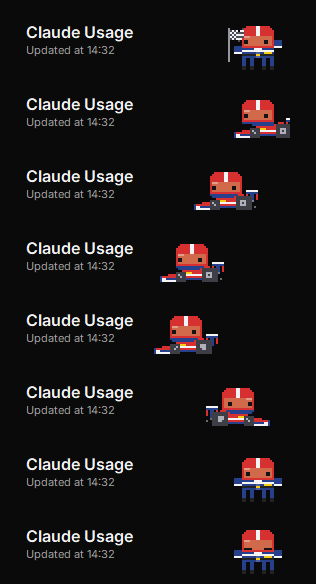
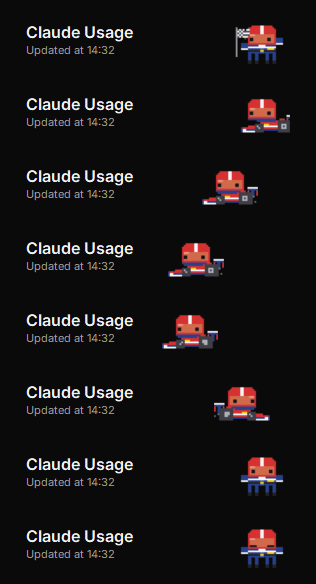
Match the mascot size, vary the work and unlock juggling from two sessions
The drawn mascots now match the laptop one in size, the header no longer keeps leftover leg pixels, and while working the mascot also thinks, takes notes, reads and stretches. Juggling and lifting weights start from two sessions and appear more often with more sessions. Version 1.11.0.

diff --git a/src/PixelMascot.cs b/src/PixelMascot.cs
@@ -1,5 +1,6 @@
 using System;
 using System.Drawing;
+using System.Drawing.Drawing2D;
 using System.Drawing.Imaging;
 
 enum MascotStyle { Pixel, Santa, Classic, Headphones, Chef, Scientist, Detective, Winter, Racer, Halloween, Carnival }
@@ -29,6 +30,10 @@ class PixelMascot : IReactiveMascot
 {
     const int Columns = 32;
     const int Rows = 24;
+    const int Supersample = 4; // Drawn this many times larger and scaled down, so the size can match the laptop mascot exactly.
+    const double DisplayScale = 0.875; // The same height as the original laptop animation.
+    const int WorkSlotMs = 14000; // How long each way of working lasts.
+    const int OverloadPeriod = 30; // Seconds in one cycle of juggling and lifting when several sessions run.
     const int FrameMs = 50; // The animation redraws this often, so motion is smooth.
     const int SleepFrameMs = 420;
     const int LegLength = 6;
@@ -41,7 +46,7 @@ class PixelMascot : IReactiveMascot
     const int FullPercent = 100;
     const int PanicMinutes = 30;
     const int CoffeeMinutes = 120;
-    const int JuggleSessions = 3;
+    const int JuggleSessions = 2;
     const int LastNightHour = 5;
     const int CelebrateFrames = 26;
     const int WaveFrames = 14;
@@ -573,13 +578,24 @@ class PixelMascot : IReactiveMascot
             break;
         }
 
-        if (state.Sessions.Busy >= JuggleSessions) return alternate ? MascotMood.Juggle : MascotMood.Lift;
+        MascotMood? overloaded = Overloaded(state.Sessions.Busy, now);
+        if (overloaded.HasValue) return overloaded.Value;
         if (state.Sessions.Busy > 0 || minutes <= WorkingMinutes)
         {
             if (highest >= TiredPercent) return MascotMood.Tired;
             return state.BusyMinutes >= CoffeeMinutes ? MascotMood.Coffee : MascotMood.Work;
         }
         return state.Sessions.Running > 0 || minutes <= RestingMinutes ? MascotMood.Idle : RestingMood(now);
+    }
+
+    // From two sessions on, juggling and lifting take turns in windows that grow with the number of sessions.
+    static MascotMood? Overloaded(int busy, DateTime now)
+    {
+        if (busy < JuggleSessions) return null;
+        double share = Math.Min(0.85, 0.15 + 0.15 * (busy - 1));
+        double seconds = now.TimeOfDay.TotalSeconds;
+        if (seconds % OverloadPeriod >= share * OverloadPeriod) return null;
+        return (long)(seconds / OverloadPeriod) % 2 == 0 ? MascotMood.Juggle : MascotMood.Lift;
     }
 
     static MascotMood RestingMood(DateTime now)
@@ -606,10 +622,11 @@ class PixelMascot : IReactiveMascot
 
     static Bitmap Render(MascotStyle style, MascotMood mood, int tick, int pixel, MascotAction? action, int actionTick, WalkPose walk, double ms)
     {
-        Bitmap bitmap = new Bitmap(Columns * pixel, Rows * pixel, PixelFormat.Format32bppArgb);
-        using (Graphics g = Graphics.FromImage(bitmap))
+        int unit = pixel * Supersample;
+        Bitmap big = new Bitmap(Columns * unit, Rows * unit, PixelFormat.Format32bppPArgb);
+        using (Graphics g = Graphics.FromImage(big))
         {
-            Canvas canvas = new Canvas(g, pixel);
+            Canvas canvas = new Canvas(g, unit);
             canvas.Style = style;
             canvas.Tick = tick;
             canvas.Ms = ms;
@@ -622,6 +639,14 @@ class PixelMascot : IReactiveMascot
             if (action.HasValue) DrawAction(canvas, style, action.Value, actionTick);
             else DrawMood(canvas, style, mood, tick, walk);
         }
+        Bitmap bitmap = new Bitmap((int)Math.Round(Columns * pixel * DisplayScale), (int)Math.Round(Rows * pixel * DisplayScale), PixelFormat.Format32bppPArgb);
+        using (Graphics g = Graphics.FromImage(bitmap))
+        {
+            g.InterpolationMode = InterpolationMode.HighQualityBilinear;
+            g.PixelOffsetMode = PixelOffsetMode.HighQuality;
+            g.DrawImage(big, new Rectangle(0, 0, bitmap.Width, bitmap.Height), 0, 0, big.Width, big.Height, GraphicsUnit.Pixel);
+        }
+        big.Dispose();
         return bitmap;
     }
 
@@ -940,10 +965,106 @@ class PixelMascot : IReactiveMascot
 
     static void DrawWork(Canvas canvas, MascotStyle style, int tick, bool tired)
     {
+        int slot = tired ? 0 : WorkSlot(canvas.Ms);
+        if (slot != 0)
+        {
+            DrawWorkBreak(canvas, style, slot, canvas.Ms % WorkSlotMs);
+            return;
+        }
         DrawTyping(canvas, tick, tired);
         DrawLaptop(canvas, LidHeight(tick));
         DrawOutfit(canvas, style, BodyTop);
         if (tired) canvas.Fill(BodyLeft + 23, BodyTop + tick % 8, 2, 3, Sweat);
+    }
+
+    // The laptop most of the time, with a few other things to do in between so the work never looks the same.
+    static int WorkSlot(double ms)
+    {
+        int[] order = { 0, 1, 0, 2, 0, 3, 0, 4 };
+        return order[(int)(ms / WorkSlotMs) % order.Length];
+    }
+
+    // 1 thinking, 2 taking notes, 3 reading, 4 stretching.
+    static void DrawWorkBreak(Canvas canvas, MascotStyle style, int slot, double ms)
+    {
+        int top = BodyTop;
+        int left = BodyLeft;
+        Color paper = Color.FromArgb(240, 240, 234);
+        Color ink = Color.FromArgb(110, 130, 190);
+        switch (slot)
+        {
+            case 1:
+                DrawFigure(canvas, top, 0, -3);
+                DrawOpenEyes(canvas, top, 1, 0, 4);
+                DrawOutfit(canvas, style, top);
+                double phase = ms % 3200;
+                if (phase < 1700)
+                {
+                    for (int dot = 0; dot < 3; dot++)
+                        if (phase > dot * 450)
+                            canvas.Fill(26 + dot * 2, top - 1 - dot * 2, 2, 2, Color.FromArgb(205, 205, 212));
+                }
+                else
+                {
+                    canvas.Fill(27, 1, 3, 1, Question);
+                    canvas.Fill(26, 2, 5, 3, Question);
+                    canvas.Fill(27, 5, 3, 1, Question);
+                    canvas.Fill(27, 6, 3, 1, Color.FromArgb(150, 150, 156));
+                    if ((int)(phase / 120) % 2 == 0)
+                    {
+                        canvas.Fill(24, 3, 1, 1, Question);
+                        canvas.Fill(31, 3, 1, 1, Question);
+                    }
+                }
+                break;
+            case 2:
+                DrawFigure(canvas, top, -1, -1 + (int)(ms / 160 % 2));
+                DrawOpenEyes(canvas, top, (int)(ms / 700 % 3) - 1, 1, 3);
+                canvas.Fill(left + 5, top + 8, 14, 8, paper);
+                for (int line = 0; line < 3; line++)
+                    canvas.Fill(left + 7, top + 10 + line * 2, 10 - (line == 2 ? 4 : 0), 1, ink);
+                canvas.Fill(left + 19 + (int)(ms / 160 % 2), top + 8, 1, 3, Gold);
+                canvas.Fill(left + 19 + (int)(ms / 160 % 2), top + 11, 1, 1, Boot);
+                DrawOutfit(canvas, style, top);
+                break;
+            case 3:
+                DrawFigure(canvas, top, 0, 0);
+                DrawOpenEyes(canvas, top, (int)(ms / 420 % 3) - 1, 1, 3);
+                canvas.Fill(left + 3, top + 16, 18, 1, Brown);
+                canvas.Fill(left + 4, top + 8, 8, 8, paper);
+                canvas.Fill(left + 13, top + 8, 7, 8, Color.FromArgb(226, 226, 218));
+                canvas.Fill(left + 12, top + 8, 1, 8, Brown);
+                for (int line = 0; line < 3; line++)
+                {
+                    canvas.Fill(left + 5, top + 10 + line * 2, 6, 1, ink);
+                    canvas.Fill(left + 14, top + 10 + line * 2, 5, 1, ink);
+                }
+                double turn = ms % 2600;
+                if (turn < 450)
+                {
+                    int x = left + 19 - (int)(turn / 450 * 8);
+                    canvas.Fill(x, top + 8, 3, 8, Color.FromArgb(250, 250, 244));
+                }
+                DrawOutfit(canvas, style, top);
+                break;
+            default:
+                double stretch = ms % 3600;
+                bool up = stretch < 2200;
+                int arm = up ? -4 : 0;
+                DrawFigure(canvas, top, arm, arm);
+                if (up) DrawClosedEyes(canvas, top);
+                else DrawOpenEyes(canvas, top, 0, 1, 3);
+                DrawOutfit(canvas, style, top);
+                if (up)
+                {
+                    Color puff = Color.FromArgb(200, 235, 235, 240);
+                    canvas.Fill(1, top + 1, 3, 1, puff);
+                    canvas.Fill(0, top + 4, 3, 1, puff);
+                    canvas.Fill(28, top + 1, 3, 1, puff);
+                    canvas.Fill(29, top + 4, 3, 1, puff);
+                }
+                break;
+        }
     }
 
     static int LidHeight(int tick)

diff --git a/src/Preview.cs b/src/Preview.cs
@@ -19,6 +19,7 @@ static class Preview
         RenderOutfits(Path.Combine(directory, "mascot-outfits.png"));
         RenderReactions(Path.Combine(directory, "mascot-reactions.png"));
         RenderMoves(Path.Combine(directory, "mascot-moves.png"));
+        RenderWorking(Path.Combine(directory, "mascot-working.png"));
         RenderWalk(Path.Combine(directory, "mascot-walk.png"), MascotStyle.Detective, false, new[] { 0, 14, 26, 40, 54, 68 }, false);
         RenderWalk(Path.Combine(directory, "mascot-panic-walk.png"), MascotStyle.Pixel, true, new[] { 0, 3, 6, 9, 12, 15, 18 }, false);
         RenderWalk(Path.Combine(directory, "mascot-racer-drive.png"), MascotStyle.Racer, false, new[] { 4, 13, 17, 21, 25, 32, 40, 48 }, false);
@@ -73,6 +74,34 @@ static class Preview
         RenderWalk(Path.Combine(directory, "mascot-act-winter.png"), MascotStyle.Winter, false, fast, true);
         RenderWalk(Path.Combine(directory, "mascot-act-halloween.png"), MascotStyle.Halloween, false, fast, true);
         RenderWalk(Path.Combine(directory, "mascot-act-carnival.png"), MascotStyle.Carnival, false, slow, true);
+    }
+
+    // The ways of working: the laptop, then thinking, taking notes, reading and stretching.
+    static void RenderWorking(string path)
+    {
+        const int Pixel = 4;
+        const int Width = 112;
+        const int Height = 84;
+        const int Gap = 12;
+        int slot = 14000;
+        int[][] rows =
+        {
+            new[] { 500, 1500, 2500, 3500 },
+            new[] { slot + 500, slot + 1500, slot + 2300, slot + 2900 },
+            new[] { slot * 3 + 400, slot * 3 + 900, slot * 3 + 1500, slot * 3 + 2200 },
+            new[] { slot * 5 + 300, slot * 5 + 1000, slot * 5 + 2000, slot * 5 + 2550 },
+            new[] { slot * 7 + 500, slot * 7 + 1500, slot * 7 + 2500, slot * 7 + 3000 }
+        };
+        using (Bitmap sheet = new Bitmap(4 * (Width + Gap) + Gap, rows.Length * (Height + Gap) + Gap))
+        using (Graphics g = Graphics.FromImage(sheet))
+        {
+            g.Clear(Color.FromArgb(10, 10, 10));
+            for (int row = 0; row < rows.Length; row++)
+                for (int i = 0; i < 4; i++)
+                    using (Bitmap frame = PixelMascot.RenderAt(MascotStyle.Pixel, MascotMood.Work, Pixel, null, rows[row][i]))
+                        g.DrawImageUnscaled(frame, Gap + i * (Width + Gap), Gap + row * (Height + Gap));
+            sheet.Save(path, ImageFormat.Png);
+        }
     }
 
     // The new animations frame by frame: a hop, popping up and flattening, the flag, the workout and lying flat.

diff --git a/src/UsagePanel.cs b/src/UsagePanel.cs
@@ -812,7 +812,7 @@ class UsagePanel : Form
         UpdateWalkRoom();
         mascot.Advance();
         mascotTimer.Interval = mascot.CurrentDelayMs;
-        Invalidate(new Rectangle(Math.Max(0, ClientSize.Width - Px(230)), 0, Px(230), Px(60)));
+        Invalidate(new Rectangle(Math.Max(0, ClientSize.Width - Px(230)), 0, Px(230), Px(80)));
     }
 
     int WalkShift

diff --git a/src/App.cs b/src/App.cs
@@ -11,7 +11,7 @@ using System.Runtime.InteropServices;
 static class App
 {
     public const string Name = "Claude Usage Taskbar";
-    public const string Version = "1.10.0";
+    public const string Version = "1.11.0";
     public const string Id = "ClaudeUsageTaskbar";
     public const string ExeName = Id + ".exe";
 

diff --git a/README.ru.md b/README.ru.md
@@ -117,9 +117,9 @@
 | Спрашивает со знаком вопроса | Сессии нужно ваше разрешение или ответ |
 | Паникует | По прогнозу лимит закончится менее чем через 30 минут |
 | Пьёт кофе | Работает более 2 часов |
-| Жонглирует | Одновременно работают три сессии или больше |
+| Жонглирует и поднимает штангу | Одновременно работают две сессии или больше. Чем больше сессий, тем чаще |
 
-Он также реагирует на происходящее. Когда лимит обновляется, он втыкает клетчатый флаг, который развевается на ветру, а вокруг сыплется конфетти. Когда обновление приложения завершается, он подпрыгивает и сплющивается в облаке конфетти. Он машет или подпрыгивает при наведении указателя, иногда подпрыгивает в покое и реагирует на клик. Если работают три сессии или больше, он иногда поднимает штангу, а на 100% иногда лежит плашмя, ошеломлённый.
+Он также реагирует на происходящее. Когда лимит обновляется, он втыкает клетчатый флаг, который развевается на ветру, а вокруг сыплется конфетти. Когда обновление приложения завершается, он подпрыгивает и сплющивается в облаке конфетти. Он машет или подпрыгивает при наведении указателя, иногда подпрыгивает в покое и реагирует на клик. За работой он также задумывается, делает заметки, читает и потягивается. Если работают две сессии или больше, он жонглирует и поднимает штангу, тем чаще, чем больше сессий, а на 100% иногда лежит плашмя, ошеломлённый.
 
 ![Новые движения: прыжок, подскок, флаг, штанга и лёжа плашмя](docs/images/mascot-moves.png)
 

diff --git a/README.es.md b/README.es.md
@@ -117,9 +117,9 @@ La mascota reacciona a tu uso. Laptop usa esta animación mientras trabaja y los
 | Preguntando con un signo de interrogación | Una sesión necesita tu permiso o tu respuesta |
 | En pánico | La previsión indica que el límite se agotará en menos de 30 minutos |
 | Tomando café | Lleva más de 2 horas trabajando |
-| Haciendo malabares | Tres o más sesiones trabajando a la vez |
+| Malabares y pesas | Dos o más sesiones trabajando a la vez. Cuantas más sesiones, más a menudo |
 
-También reacciona a lo que ocurre. Cuando un límite se renueva, clava una bandera de cuadros que ondea con el viento, con confeti cayendo alrededor. Cuando termina una actualización, salta y se aplasta en una lluvia de confeti. Saluda o da un salto al pasar el ratón, da un saltito de vez en cuando mientras descansa y reacciona al hacer clic. Con tres o más sesiones trabajando, a veces levanta pesas, y al 100% a veces queda aplastada y mareada.
+También reacciona a lo que ocurre. Cuando un límite se renueva, clava una bandera de cuadros que ondea con el viento, con confeti cayendo alrededor. Cuando termina una actualización, salta y se aplasta en una lluvia de confeti. Saluda o da un salto al pasar el ratón, da un saltito de vez en cuando mientras descansa y reacciona al hacer clic. Mientras trabaja, también piensa, toma notas, lee y se estira de vez en cuando. Con dos o más sesiones trabajando, hace malabares y levanta pesas, más a menudo cuantas más sesiones haya, y al 100% a veces queda aplastada y mareada.
 
 ![Los movimientos nuevos: salto, brinco, bandera, pesas y aplastada](docs/images/mascot-moves.png)
 

diff --git a/README.pt-BR.md b/README.pt-BR.md
@@ -116,9 +116,9 @@ O mascote reage ao seu uso. O Notebook usa esta animação enquanto trabalha e o
 | Perguntando com uma interrogação | Uma sessão precisa da sua permissão ou resposta |
 | Em pânico | A previsão indica que o limite acaba em menos de 30 minutos |
 | Tomando café | Está trabalhando há mais de 2 horas |
-| Fazendo malabarismo | Três ou mais sessões trabalhando ao mesmo tempo |
+| Malabarismo e musculação | Duas ou mais sessões trabalhando ao mesmo tempo. Quanto mais sessões, mais frequente |
 
-Ele também reage ao que acontece. Quando um limite renova, finca uma bandeira quadriculada que balança ao vento, com confete caindo ao redor. Quando uma atualização termina, ele salta e se achata numa chuva de confete. Acena ou pula quando você passa o mouse, dá um pulinho de vez em quando enquanto descansa e reage ao clique. Com três ou mais sessões trabalhando, às vezes ele levanta pesos, e em 100% às vezes fica achatado e tonto.
+Ele também reage ao que acontece. Quando um limite renova, finca uma bandeira quadriculada que balança ao vento, com confete caindo ao redor. Quando uma atualização termina, ele salta e se achata numa chuva de confete. Acena ou pula quando você passa o mouse, dá um pulinho de vez em quando enquanto descansa e reage ao clique. Enquanto trabalha, ele também pensa, anota, lê e se espreguiça de vez em quando. Com duas ou mais sessões trabalhando, ele faz malabarismo e levanta pesos, mais vezes quanto mais sessões houver, e em 100% às vezes fica achatado e tonto.
 
 ![Os movimentos novos: pulo, saltar, bandeira, pesos e achatado](docs/images/mascot-moves.png)
 

diff --git a/README.md b/README.md
@@ -116,9 +116,9 @@ The mascot reacts to your usage. Laptop uses this animation while working and th
 | Asking with a question mark | A session needs your permission or an answer |
 | Panicking | The forecast says the limit will run out in under 30 minutes |
 | Drinking coffee | It has been working for over 2 hours |
-| Juggling | Three or more sessions are working at once |
+| Juggling and lifting weights | Two or more sessions are working at once. The more sessions, the more often |
 
-It also reacts to what happens. When a limit renews it plants a checkered flag that waves in the wind, with confetti falling around it. When an update finishes it pops up and squashes flat in a burst of confetti. It waves or hops when you hover over it, gives a little hop now and then while resting, and reacts when you click it. With three or more sessions working it sometimes lifts weights, and at 100% it sometimes lies flat and dizzy.
+It also reacts to what happens. When a limit renews it plants a checkered flag that waves in the wind, with confetti falling around it. When an update finishes it pops up and squashes flat in a burst of confetti. It waves or hops when you hover over it, gives a little hop now and then while resting, and reacts when you click it. While working it also thinks, takes notes, reads and stretches now and then. With two or more sessions working it juggles and lifts weights, more often the more sessions there are, and at 100% it sometimes lies flat and dizzy.
 
 ![The new moves: hop, popping up, flag, weights and lying flat](docs/images/mascot-moves.png)
 

diff --git a/CHANGELOG.md b/CHANGELOG.md
@@ -1,5 +1,12 @@
 # Changelog
 
+## 1.11.0
+
+- The mascots drawn by the app now match the size of the laptop one
+- Fixed leftover leg pixels that stayed in the header after the laptop mascot reacted to the mouse
+- While working, the mascot also thinks, takes notes, reads and stretches instead of only using its laptop
+- Juggling and lifting weights now start from two sessions, and appear more often the more sessions are running
+
 ## 1.10.0
 
 - A look closer to the original character: small square eyes, longer legs with knees that bend as it walks, and smoother motion
